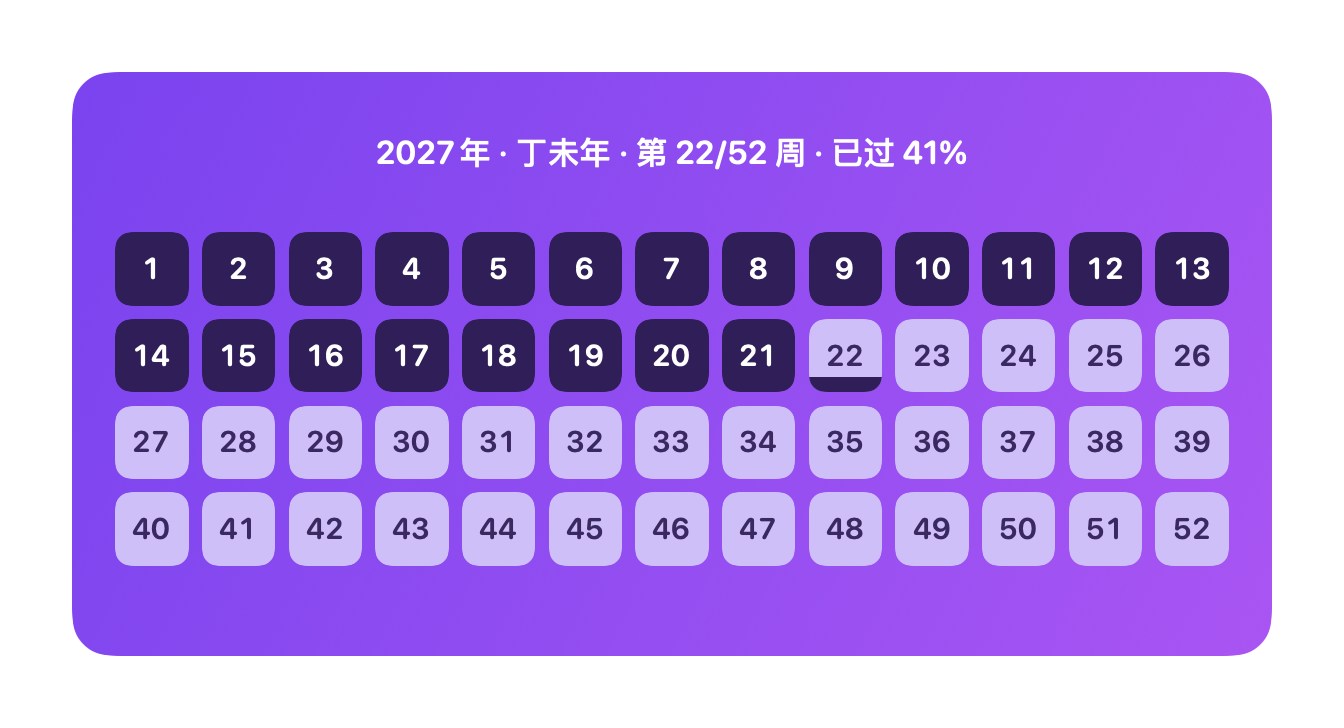
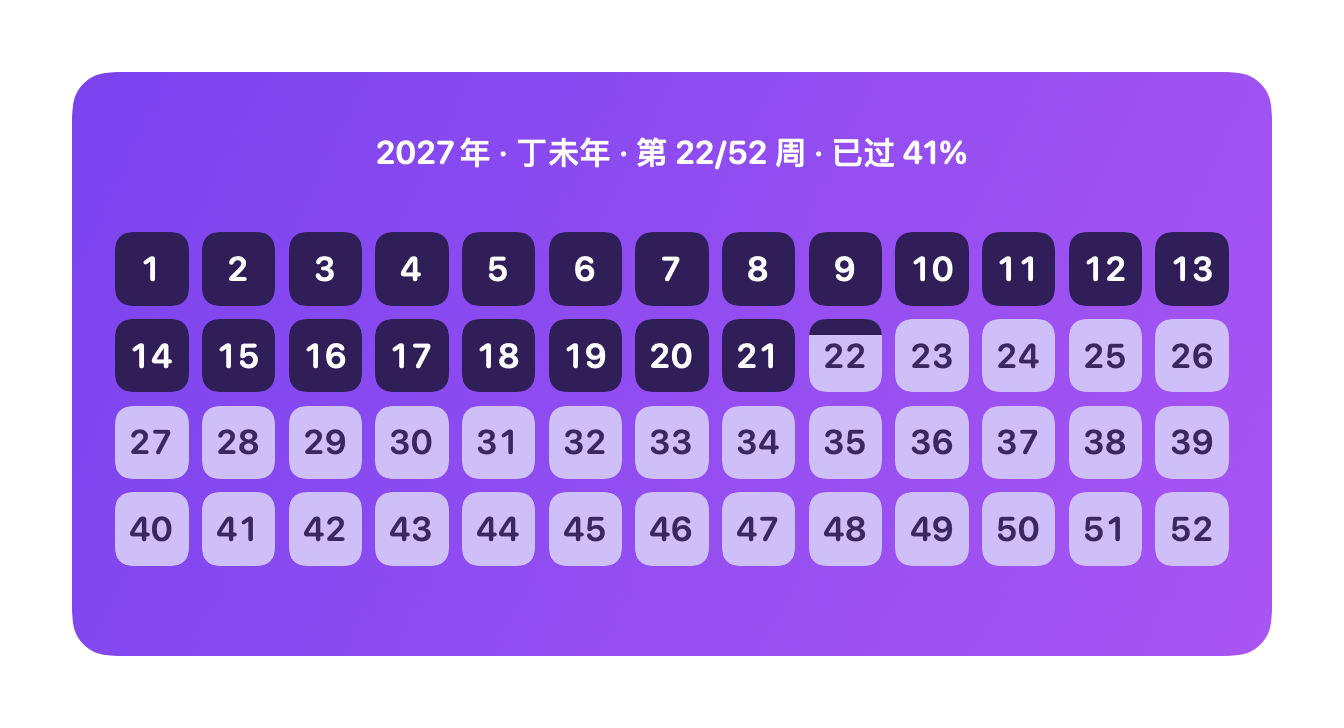
style(ui): 本周进度改为自顶向下；周序号加大并在分界处双色

diff --git a/Sources/YearProgressUI/YearProgressCardView.swift b/Sources/YearProgressUI/YearProgressCardView.swift
@@ -157,7 +157,8 @@ private struct WeekBlockView: View {
         ZStack(alignment: .bottom) {
             RoundedRectangle(cornerRadius: radius, style: .continuous).fill(fill)
             if cell.state == .current {
-                ZStack(alignment: .bottom) {
+                // 本周：已过部分从顶部向下增长，剩余部分留在底部
+                ZStack(alignment: .top) {
                     Color.clear
                     Rectangle()
                         .fill(theme.currentProgressFill)
@@ -165,13 +166,7 @@ private struct WeekBlockView: View {
                 }
             }
             // 第几周：水平 + 垂直居中
-            Text("\(cell.index)")
-                .font(.system(size: max(5.5, side * 0.40), weight: .semibold, design: .rounded).monospacedDigit())
-                .foregroundStyle(labelColor)
-                .lineLimit(1)
-                .minimumScaleFactor(0.55)
-                .frame(maxWidth: .infinity, maxHeight: .infinity, alignment: .center)
-                .allowsHitTesting(false)
+            number
         }
         .frame(width: side, height: side)
         .clipShape(RoundedRectangle(cornerRadius: radius, style: .continuous))
@@ -193,12 +188,30 @@ private struct WeekBlockView: View {
         }
     }
 
-    /// 文字压在当前周的进度条上时，按进度条是否盖住中心切换前景色
-    private var labelColor: Color {
+    /// 本周方块跨在「已过 / 未过」分界线上时，数字按分界线切成两种颜色，
+    /// 保证压在深色段和浅色段的部分都清楚。
+    @ViewBuilder
+    private var number: some View {
+        let base = Text("\(cell.index)")
+            .font(.system(size: max(6, side * 0.46), weight: .semibold, design: .rounded).monospacedDigit())
+            .lineLimit(1)
+            .minimumScaleFactor(0.55)
+            .frame(maxWidth: .infinity, maxHeight: .infinity, alignment: .center)
+            .allowsHitTesting(false)
+
         switch cell.state {
-        case .past: return theme.pastLabel
-        case .future: return theme.futureLabel
-        case .current: return cell.fraction > 0.5 ? theme.pastLabel : theme.futureLabel
+        case .past:
+            base.foregroundStyle(theme.pastLabel)
+        case .future:
+            base.foregroundStyle(theme.futureLabel)
+        case .current:
+            let f = CGFloat(min(1, max(0, cell.fraction)))
+            ZStack {
+                base.foregroundStyle(theme.pastLabel)
+                    .mask(alignment: .top) { Rectangle().frame(height: f * side) }
+                base.foregroundStyle(theme.futureLabel)
+                    .mask(alignment: .bottom) { Rectangle().frame(height: (1 - f) * side) }
+            }
         }
     }
 

diff --git a/PLAN.md b/PLAN.md
@@ -172,7 +172,8 @@ public struct YearProgress {
   石墨主题另外给深色块加 1px 半透明描边，防止与卡片底色粘连。
 - 圆角：`s * 0.22`；间距随尺寸缩放，整体气质偏克制、无阴影堆叠。
 - 信息层：**顶部一行居中** —— 年份 · 干支 · `第 42/53 周` · `已过 78%`；跨年周时补一行小字。
-- 每个方块中央显示周序号（阿拉伯数字），深浅底自动切换前景色。
+- 每个方块中央显示周序号（阿拉伯数字），深浅底自动切换前景色；本周方块按分界线做双色数字。
+- 本周进度从**顶部向下**增长（已过部分在上、剩余部分在下）。
 - **系统小组件固定用暗岩灰底色**（`#33363B → #202327`）+ 与面板相同的方块色（`#33465C` / `#AFC8DE`），菜单里的主题/尺寸只作用于桌面挂件。
 - 桌面挂件的网格**复用系统中号小组件的行列**（`WidgetGridReference`，按 338×158 基准推算）：
   53 周 = 14 列 × 4 行（末行 11 块），52 周 = 13 列 × 4 行。

diff --git a/README.md b/README.md
@@ -1,7 +1,7 @@
 # 年进度小组件 · YearProgress
 
 把「一年里的每一周」画成一格小方块，**每个方块中央显示第几周（阿拉伯数字）**：
-**已过的周是深色块（白字），未来的周是浅色块（深字），本周是浅底 + 从底部升起的深色进度条**。
+**已过的周是深色块（白字），未来的周是浅色块（深字），本周的深色已过部分从顶部向下增长**（数字跨分界线时自动双色）。
 顶部一行居中显示「2026年 · 丙午年 · 第 42/53 周 · 已过 78%」，下面是方块网格。
 
 两种状态的颜色都和底色同色系、明度差接近：紫色主题是**深梅子 `#2F1E57` / 浅薰衣草 `#CFBFF8`**，
